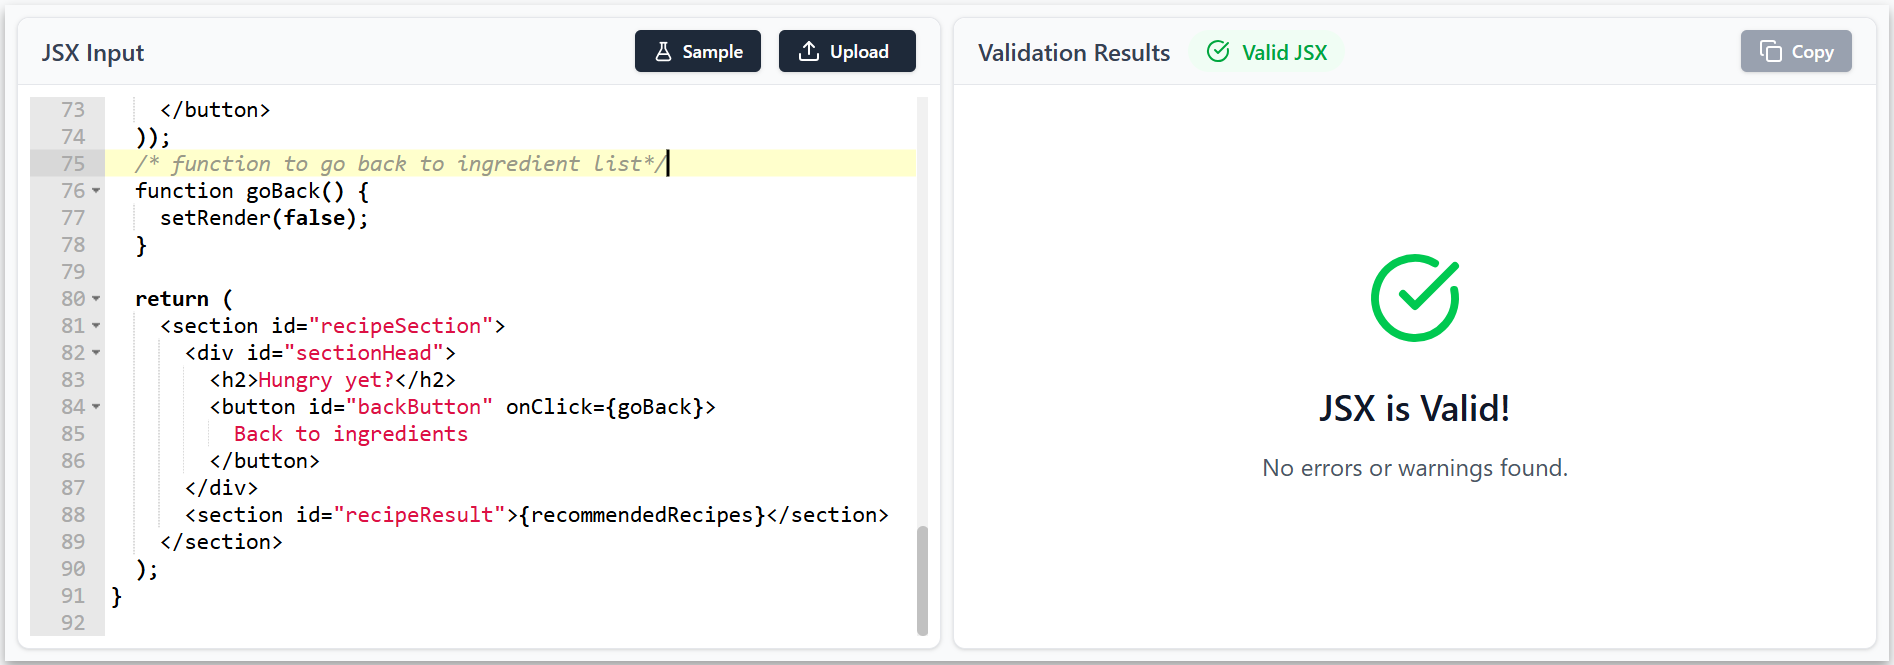
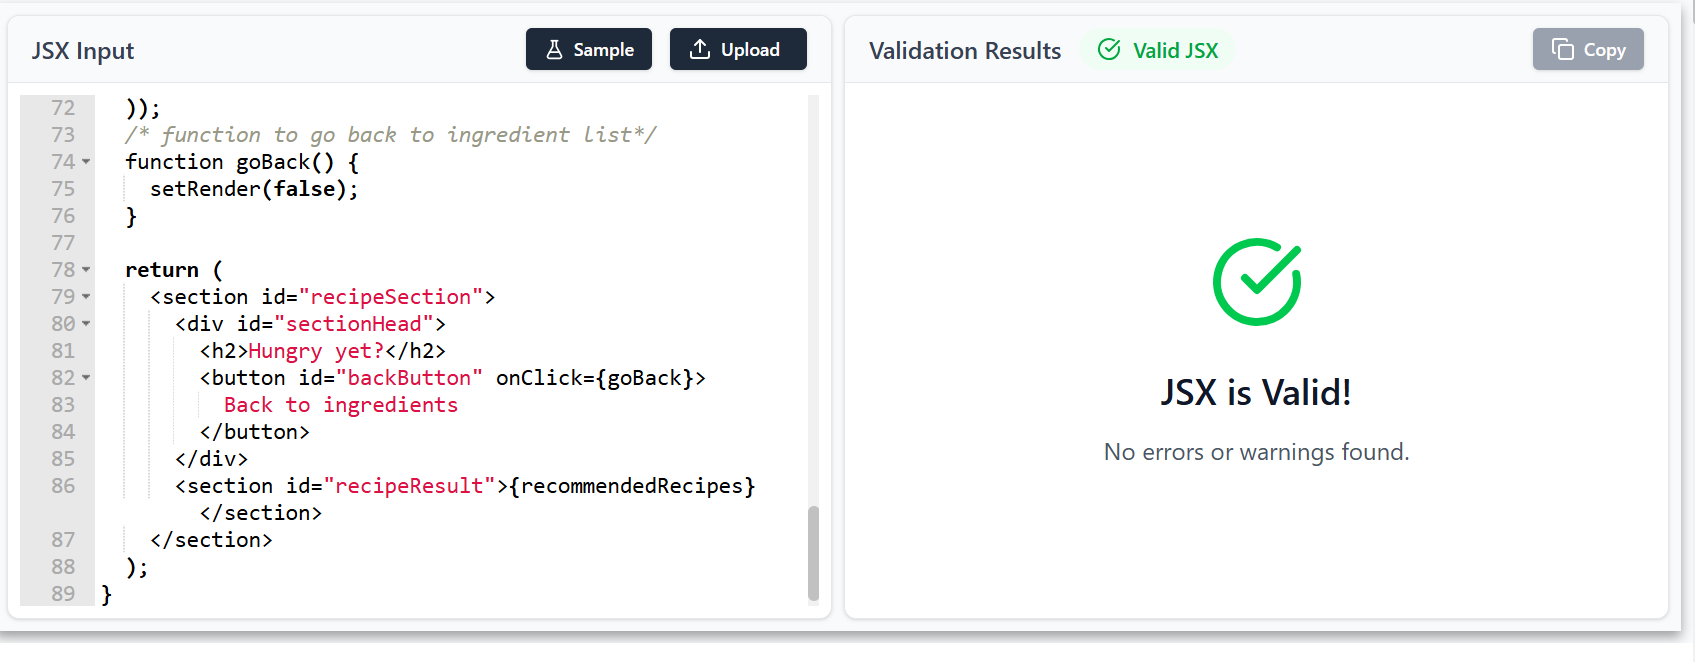
Readme spellchecked

diff --git a/src/index.css b/src/index.css
@@ -195,7 +195,6 @@ form input:hover {
   border: none;
   padding: 0;
   margin: 0;
- 
 }
 /*cards containing recipe info*/
 .recipeCard {
@@ -208,7 +207,7 @@ form input:hover {
   align-items: center;
   text-align: center;
   margin: auto;
-  padding:0 40px  40px 40px;
+  padding: 0 40px 40px 40px;
   height: 100%;
   width: 100%;
   max-width: 100%;
@@ -222,7 +221,7 @@ form input:hover {
   height: auto;
   display: block;
   object-fit: cover;
-  margin-top:10px;
+  margin-top: 10px;
 }
 .recipeCard ul {
   align-self: flex-start;
@@ -293,10 +292,10 @@ footer p {
   #opening {
     display: grid;
     grid-template-columns: 1fr 1fr;
-    grid-column:span 2;
+    grid-column: span 2;
     grid-template-rows: auto;
     height: auto;
-    margin:20px;
+    margin: 20px;
     padding-bottom: 50px;
     font-size: 18px;
   }
@@ -348,9 +347,9 @@ footer p {
     height: 90%;
     margin: auto;
   }
-  footer{
-    grid-column:span 2;
-    height:100%;
+  footer {
+    grid-column: span 2;
+    height: 100%;
   }
 }
 @media screen and (min-width: 900px) {
@@ -453,50 +452,47 @@ footer p {
     rgba(0, 0, 0, 0.09) 0px 32px 16px;
 }
 
-
 /*404 page styles*/
-      .page {
-        max-width: 380px;
-        padding: 24px;
-        border-radius: 12px;
-        max-height:fit-content;
-        background: #b2cd9c;
-        
-      }
-      .page h1 {
-        margin: 0 0 12px;
-        font-size: 2rem;
-      }
-    
-      .page p {
-        margin: 0 0 18px;
-        line-height: 1.5;
-      }
-      .page button {
-        display: inline-block;
-        padding:25px;
-        margin:20px;
-        border-radius: 8px;
-        background:var(--primary-color);
-        text-decoration: none;
-        font-weight: 700;
-      }
-      .page a {
-          display: inline-block;
-        padding:25px;
-        margin:20px;
-        border-radius: 8px;
-        background:var(--primary-color);
-        text-decoration: none;
-        font-weight: 700;
-        font-size: larger;
-        color:var(--highlight-color);
-      }
-    
-       .page a:hover{
-         color: var(--alternate-color);
-         background-color: var(--highlight-color);
-        border: 3px solid var(--primary-color);
-        cursor: pointer;
-       }
-      
+.page {
+  max-width: 380px;
+  padding: 24px;
+  border-radius: 12px;
+  max-height: fit-content;
+  background: #b2cd9c;
+}
+.page h1 {
+  margin: 0 0 12px;
+  font-size: 2rem;
+}
+
+.page p {
+  margin: 0 0 18px;
+  line-height: 1.5;
+}
+.page button {
+  display: inline-block;
+  padding: 25px;
+  margin: 20px;
+  border-radius: 8px;
+  background: var(--primary-color);
+  text-decoration: none;
+  font-weight: 700;
+}
+.page a {
+  display: inline-block;
+  padding: 25px;
+  margin: 20px;
+  border-radius: 8px;
+  background: var(--primary-color);
+  text-decoration: none;
+  font-weight: 700;
+  font-size: larger;
+  color: var(--highlight-color);
+}
+
+.page a:hover {
+  color: var(--alternate-color);
+  background-color: var(--highlight-color);
+  border: 3px solid var(--primary-color);
+  cursor: pointer;
+}

diff --git a/src/components/IngredientsList.jsx b/src/components/IngredientsList.jsx
@@ -9,19 +9,22 @@ export default function IngredientsList({
 }) {
   function handleSubmit(formData) {
     const newIngredient = formData.get("ingredient");
-    if (newIngredient === ""){alert("please enter an ingredient to continue")}else{
-    if (newIngredient.length > 0) {
-      if (!ingredients.includes(newIngredient)) {
-        setIngredients((prevIngredients) => [
-          ...prevIngredients,
-          newIngredient,
-        ]);
-      } else {
-        alert(`You have already entered ${newIngredient}`);
-        return ingredients;
+    if (newIngredient === "") {
+      alert("please enter an ingredient to continue");
+    } else {
+      if (newIngredient.length > 0) {
+        if (!ingredients.includes(newIngredient)) {
+          setIngredients((prevIngredients) => [
+            ...prevIngredients,
+            newIngredient,
+          ]);
+        } else {
+          alert(`You have already entered ${newIngredient}`);
+          return ingredients;
+        }
       }
     }
-  }}
+  }
   /*Function to handle removing items from list*/
   function removeIngredient() {
     setIngredients((prevIngredients) => prevIngredients.slice(0, -1));
@@ -43,7 +46,7 @@ export default function IngredientsList({
       <MdFoodBank /> {ingredient}
     </li>
   ));
-  /*variable containing JSX for Ingredients list*/ 
+  /*variable containing JSX for Ingredients list*/
   const listRender = (
     <section id="listSection" className="shadow">
       <div id="listPic">

diff --git a/src/App.jsx b/src/App.jsx
@@ -1,5 +1,5 @@
 import { useState } from "react";
-import "./index.css"
+import "./index.css";
 import Navbar from "./components/Navbar";
 import Header from "./components/Header";
 import MainSection from "./components/MainSection";

diff --git a/src/components/Header.jsx b/src/components/Header.jsx
@@ -1,8 +1,6 @@
 import titlePic1 from "../assets/images/header-pic.webp";
 
 export default function Header() {
-
-
   return (
     <div id="opening" className="shadow">
       <div id="textDiv">

diff --git a/README.md b/README.md
@@ -473,6 +473,10 @@ All JSX components tested at [json table](https://jsontotable.org/jsx-validator)
 
 All checks passed first time which was the expected result, although earlier in the development cycle the Main section was just called Recipe which is because it incorporated both the ingredients list and the Recipe card sections. Once I had all the code working through the use of props it was slowly refactored into the separate JSX elements. I chose to do this because I felt it was better practice to fully make the most of the React setup being used. I also felt it made the readability of the code much easier for someone else trying to work with the code as with a separate JSX element doing as close to one thing each you can easily navigate through to update sections as needed without affecting the rest of the code.
 
+Whilst checking through my code I notice a redundant useState called recipeLink. The original intention was to have a separate state for storing the links to the recipes. This subsequently changed after reading the spoonacular documentation and discovering I already had all the information I needed within the previous API call and recipes State but somehow that had survived the change in direction for the code and has subsequently been deleted and the screenshot above will be of the newly tested with this code deleted.below you will find a screenshot of the deleted state.
+
+![redundant useState](/src/assets/images/readme-images/redundent-useState.png) 
+
 [Back to top](#recipe-rescue)
 
 </details>
